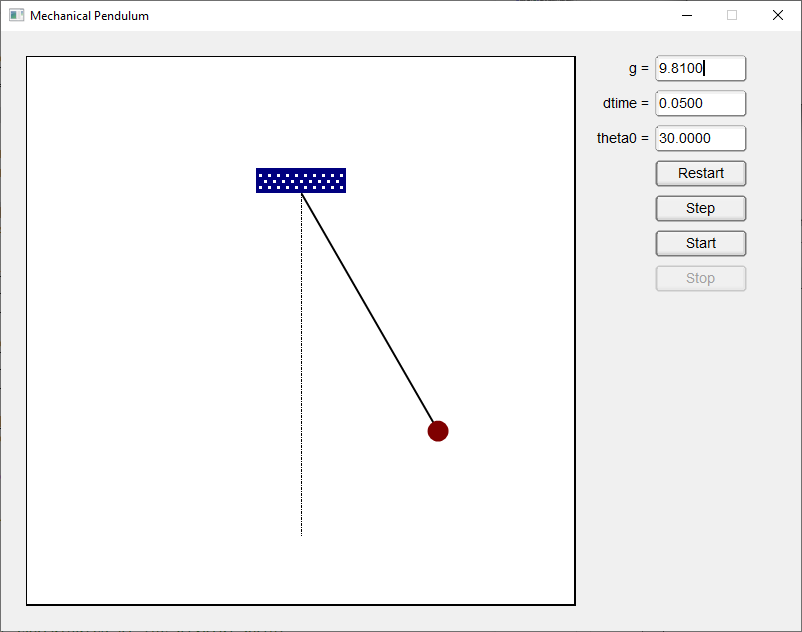
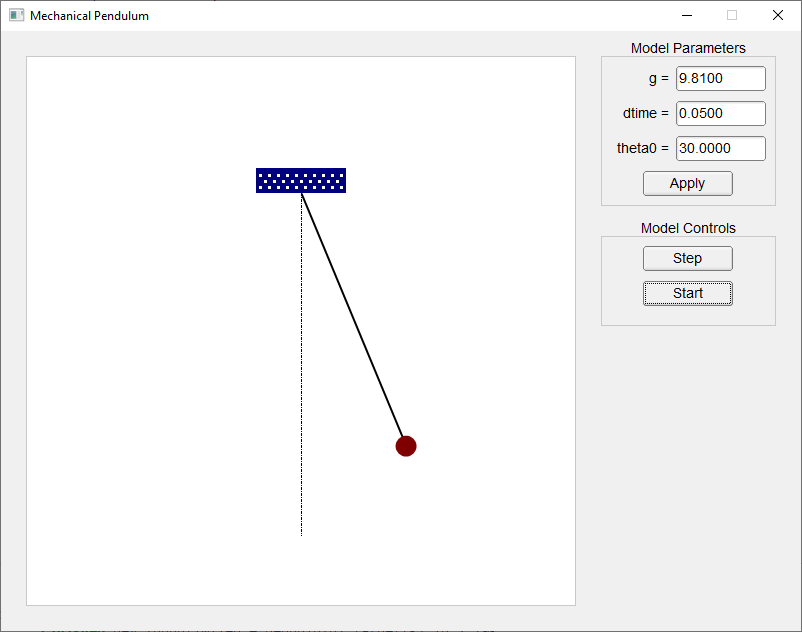
[MechanicalPendulum] Improve running of the simulation
Use system of messages and threads for running the simulation steps

diff --git a/MechanicalPendulum/src/main.rs b/MechanicalPendulum/src/main.rs
@@ -5,10 +5,12 @@ use fltk::{*, prelude::{*}};
 
 use std::cell::RefCell;
 use std::rc::Rc;
+use std::{thread, time::Duration};
 
 const THETA_0: f64 = 45.0;
 
-const REDRAW_DT: f64 = 0.016;
+// const REDRAW_DT: f64 = 0.016;
+const REDRAW_DT: u64 = 16;
 
 const WIDTH: i32 = 800;
 const HEIGHT: i32 = 600;
@@ -29,8 +31,9 @@ fn main() {
         .with_size(WIDTH, HEIGHT).center_screen()
         .with_label("Mechanical Pendulum");
 
+    const MODEL_SIZE: i32 = HEIGHT - 50;
     let mut model_display = frame::Frame::default()
-        .with_size(HEIGHT - 50, HEIGHT - 50)
+        .with_size(MODEL_SIZE, MODEL_SIZE)
         .with_pos(25, 25);
 
     let offs = draw::Offscreen::new(model_display.w(), model_display.h()).unwrap();
@@ -42,7 +45,7 @@ fn main() {
 
             // Color palette
             const BG_COLOR: enums::Color = enums::Color::White;
-            const BOUNDS_COLOR: enums::Color = enums::Color::Black;
+            const BOUNDS_COLOR: enums::Color = enums::Color::Dark3;
             const VERT_AXIS_COLOR: enums::Color = enums::Color::Black;
             const FIX_COLOR: enums::Color = enums::Color::DarkBlue;
             const FIX_DOT_COLOR: enums::Color = enums::Color::White;
@@ -54,6 +57,7 @@ fn main() {
 
             // Draw bounds
             draw::set_draw_color(BOUNDS_COLOR);
+            draw::set_line_style(draw::LineStyle::Solid, 1);
             draw::draw_rect(0, 0, w, h);
 
             // Coordinates of the pivotal point
@@ -99,6 +103,8 @@ fn main() {
             draw::set_draw_color(enums::Color::DarkRed);
             draw::draw_circle_fill(x1 - WEIGHT_RADIUS, y1 - WEIGHT_RADIUS, WEIGHT_RADIUS * 2, WEIGHT_COLOR);
 
+            draw::set_line_style(draw::LineStyle::Solid, 0);
+
             offs.end();
         };
 
@@ -115,40 +121,62 @@ fn main() {
         }
     });
 
+    let mut g_params = group::Group::default()
+        .with_size(WIDTH - MODEL_SIZE - 75, 150)
+        .right_of(&model_display, 25)
+        .with_label("Model Parameters");
+    g_params.set_frame(enums::FrameType::BorderFrame);
+    g_params.set_color(enums::Color::Dark3);
+
     let mut in_g = input::Input::default()
-        .with_size(90, 25).right_of(&model_display, 80)
+        .with_size(90, 25)
+        .with_pos(g_params.x() + 75, g_params.y() + 10)
         .with_label("g = ");
     let g_str = format!("{:.4}", model.borrow().g());
     in_g.set_value(&g_str);
+    in_g.set_tooltip("Gravitational constant");
 
     let mut in_dtime = input::Input::default()
         .with_size(90, 25).below_of(&in_g, 10)
         .with_label("dtime = ");
     let dtime_str = format!("{:.4}", model.borrow().dtime());
     in_dtime.set_value(&dtime_str);
+    in_dtime.set_tooltip("Time step delta");
 
     let mut in_theta0 = input::Input::default()
         .with_size(90, 25).below_of(&in_dtime, 10)
         .with_label("theta0 = ");
     let theta0_str = format!("{:.4}", model.borrow().theta().to_degrees());
     in_theta0.set_value(&theta0_str);
+    in_theta0.set_tooltip("Initial pendulum angle");
 
     let btn_restart = button::Button::default()
-        .with_size(90, 25).below_of(&in_theta0, 10)
-        .with_label("Restart");
+        .with_size(90, 25)
+        .below_of(&in_theta0, 10)
+        .center_x(&g_params)
+        .with_label("Apply");
+
+    g_params.end();
+
+    let mut g_controls = group::Group::default()
+        .with_size(g_params.width(), 90)
+        .below_of(&g_params, 30)
+        .with_label("Model Controls");
+    g_controls.set_frame(enums::FrameType::BorderFrame);
+    g_controls.set_color(enums::Color::Dark3);
 
     let btn_step = button::Button::default()
-        .with_size(90, 25).below_of(&btn_restart, 10)
+        .with_size(90, 25)
+        .with_pos(g_controls.x(), g_controls.y() + 15)
+        .center_x(&g_controls)
         .with_label("Step");
 
-    let btn_start = button::Button::default()
-        .with_size(90, 25).below_of(&btn_step, 10)
+    let btn_start_stop = button::Button::default()
+        .with_size(90, 25)
+        .below_of(&btn_step, 10)
         .with_label("Start");
 
-    let mut btn_stop = button::Button::default()
-        .with_size(90, 25).below_of(&btn_start, 10)
-        .with_label("Stop");
-    btn_stop.deactivate();
+    g_controls.end();
 
     let model_display = Rc::from(RefCell::from(model_display));
     let in_g = Rc::from(RefCell::from(in_g));
@@ -156,8 +184,7 @@ fn main() {
     let in_theta0 = Rc::from(RefCell::from(in_theta0));
     let btn_restart = Rc::from(RefCell::from(btn_restart));
     let btn_step = Rc::from(RefCell::from(btn_step));
-    let btn_start = Rc::from(RefCell::from(btn_start));
-    let btn_stop = Rc::from(RefCell::from(btn_stop));
+    let btn_start_stop = Rc::from(RefCell::from(btn_start_stop));
 
     btn_restart.borrow_mut().set_callback({
         let model = model.clone();
@@ -184,78 +211,31 @@ fn main() {
         }
     });
 
-    btn_step.borrow_mut().set_callback({
-        let model = model.clone();
-        let model_display = model_display.clone();
-        move |_| {
-            let mut model = model.borrow_mut();
-            let mut model_display = model_display.borrow_mut();
+    // Message to control the simulation
+    #[derive(Debug, Clone, Copy)]
+    pub enum Message {
+        Start,
+        Stop,
+        Step,
+        Running,
+    }
 
-            model.step();
+    let (tx, rx) = app::channel::<Message>();
 
-            model_display.redraw();
-        }
+    btn_step.borrow_mut().set_callback( move |_| {
+        tx.send(Message::Step);
     });
 
-    btn_start.borrow_mut().set_callback({
+    btn_start_stop.borrow_mut().set_callback({
         let running = running.clone();
-        let in_g = in_g.clone();
-        let in_dtime = in_dtime.clone();
-        let in_theta0 = in_theta0.clone();
-        let btn_restart = btn_restart.clone();
-        let btn_step = btn_step.clone();
-        let btn_start = btn_start.clone();
-        let btn_stop = btn_stop.clone();
         move |_| {
-            let mut running = running.borrow_mut();
-            let mut in_g = in_g.borrow_mut();
-            let mut in_dtime = in_dtime.borrow_mut();
-            let mut in_theta0 = in_theta0.borrow_mut();
-            let mut btn_restart = btn_restart.borrow_mut();
-            let mut btn_step = btn_step.borrow_mut();
-            let mut btn_start = btn_start.borrow_mut();
-            let mut btn_stop = btn_stop.borrow_mut();
-
-            *running = true;
-
-            in_g.deactivate();
-            in_dtime.deactivate();
-            in_theta0.deactivate();
-            btn_restart.deactivate();
-            btn_step.deactivate();
-            btn_start.deactivate();
-            btn_stop.activate();
-        }
-    });
-
-    btn_stop.borrow_mut().set_callback({
-        let running = running.clone();
-        let in_g = in_g.clone();
-        let in_dtime = in_dtime.clone();
-        let in_theta0 = in_theta0.clone();
-        let btn_restart = btn_restart.clone();
-        let btn_step = btn_step.clone();
-        let btn_start = btn_start.clone();
-        let btn_stop = btn_stop.clone();
-        move |_| {
-            let mut running = running.borrow_mut();
-            let mut in_g = in_g.borrow_mut();
-            let mut in_dtime = in_dtime.borrow_mut();
-            let mut in_theta0 = in_theta0.borrow_mut();
-            let mut btn_restart = btn_restart.borrow_mut();
-            let mut btn_step = btn_step.borrow_mut();
-            let mut btn_start = btn_start.borrow_mut();
-            let mut btn_stop = btn_stop.borrow_mut();
-
-            *running = false;
-
-            in_g.activate();
-            in_dtime.activate();
-            in_theta0.activate();
-            btn_restart.activate();
-            btn_step.activate();
-            btn_start.activate();
-            btn_stop.deactivate();
+            let running = running.borrow();
+            if *running {
+                tx.send(Message::Stop);
+            }
+            else {
+                tx.send(Message::Start);
+            }
         }
     });
 
@@ -266,16 +246,64 @@ fn main() {
         let running = running.clone();
         let model = model.clone();
         let model_display = model_display.clone();
+        let in_g = in_g.clone();
+        let in_dtime = in_dtime.clone();
+        let in_theta0 = in_theta0.clone();
+        let btn_restart = btn_restart.clone();
+        let btn_step = btn_step.clone();
+        let btn_start_stop = btn_start_stop.clone();
         move |_| {
-            let running = running.borrow();
+            let mut running = running.borrow_mut();
             let mut model = model.borrow_mut();
             let mut model_display = model_display.borrow_mut();
-            if (*running) {
-                model.step();
+            let mut in_g = in_g.borrow_mut();
+            let mut in_dtime = in_dtime.borrow_mut();
+            let mut in_theta0 = in_theta0.borrow_mut();
+            let mut btn_restart = btn_restart.borrow_mut();
+            let mut btn_step = btn_step.borrow_mut();
+            let mut btn_start_stop = btn_start_stop.borrow_mut();
 
-                model_display.redraw();
+            if let Some(msg) = rx.recv() {
+                match msg {
+                    Message::Start => {
+                        *running = true;
 
-                app::sleep(REDRAW_DT);
+                        // Set state to running
+                        in_g.deactivate();
+                        in_dtime.deactivate();
+                        in_theta0.deactivate();
+                        btn_restart.deactivate();
+                        btn_step.deactivate();
+                        btn_start_stop.set_label("Stop");
+                        
+                        tx.send(Message::Running);
+                    }
+                    Message::Stop => {
+                        *running = false;
+                        
+                        // Set state to stopped
+                        in_g.activate();
+                        in_dtime.activate();
+                        in_theta0.activate();
+                        btn_restart.activate();
+                        btn_step.activate();
+                        btn_start_stop.set_label("Start");
+                    }
+                    Message::Step => {
+                        model.step();
+                        model_display.redraw();
+                    }
+                    Message::Running => {
+                        if *running {
+                            // Make step and schedule next 'Running' poll
+                            thread::spawn(move || {
+                                tx.send(Message::Step);
+                                thread::sleep(Duration::from_millis(REDRAW_DT));
+                                tx.send(Message::Running);
+                            });
+                        }
+                    }
+                }
             }
         }
     });
